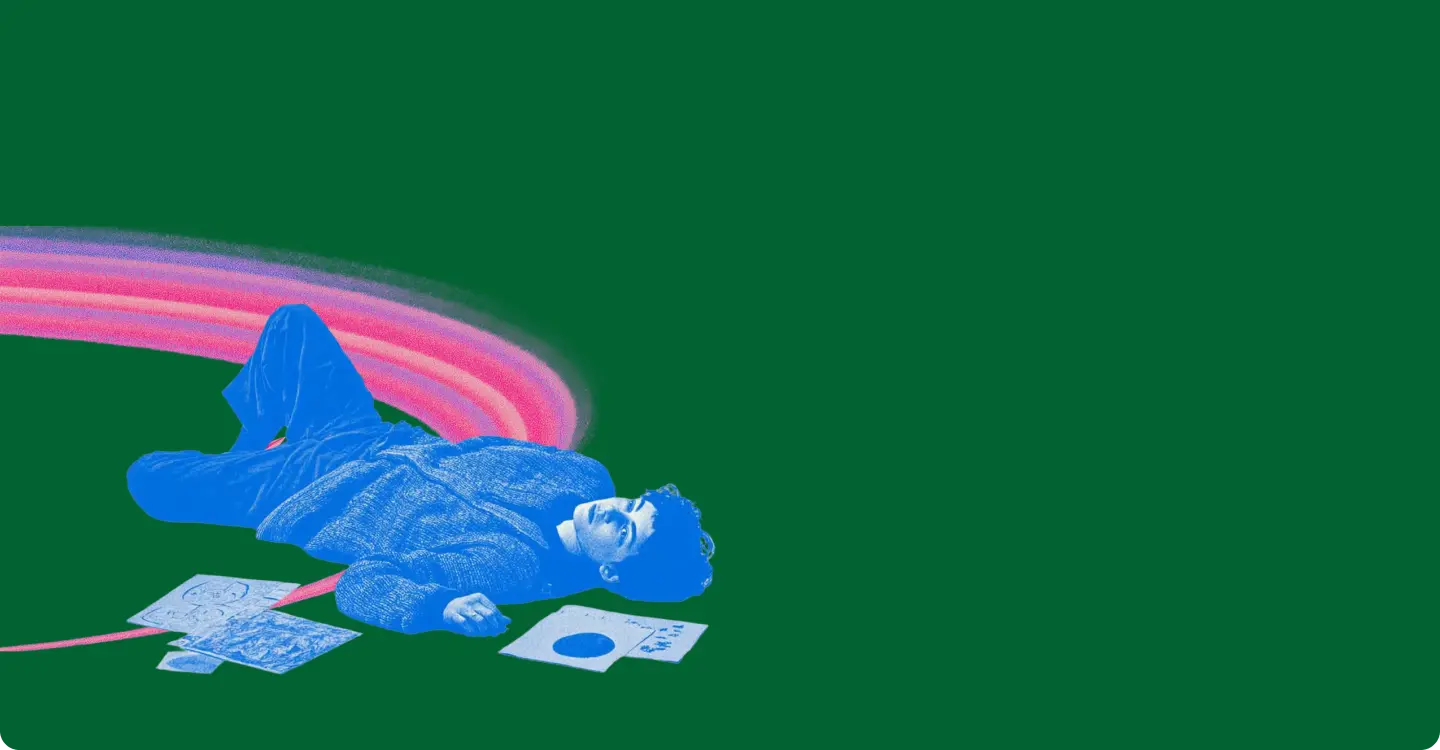
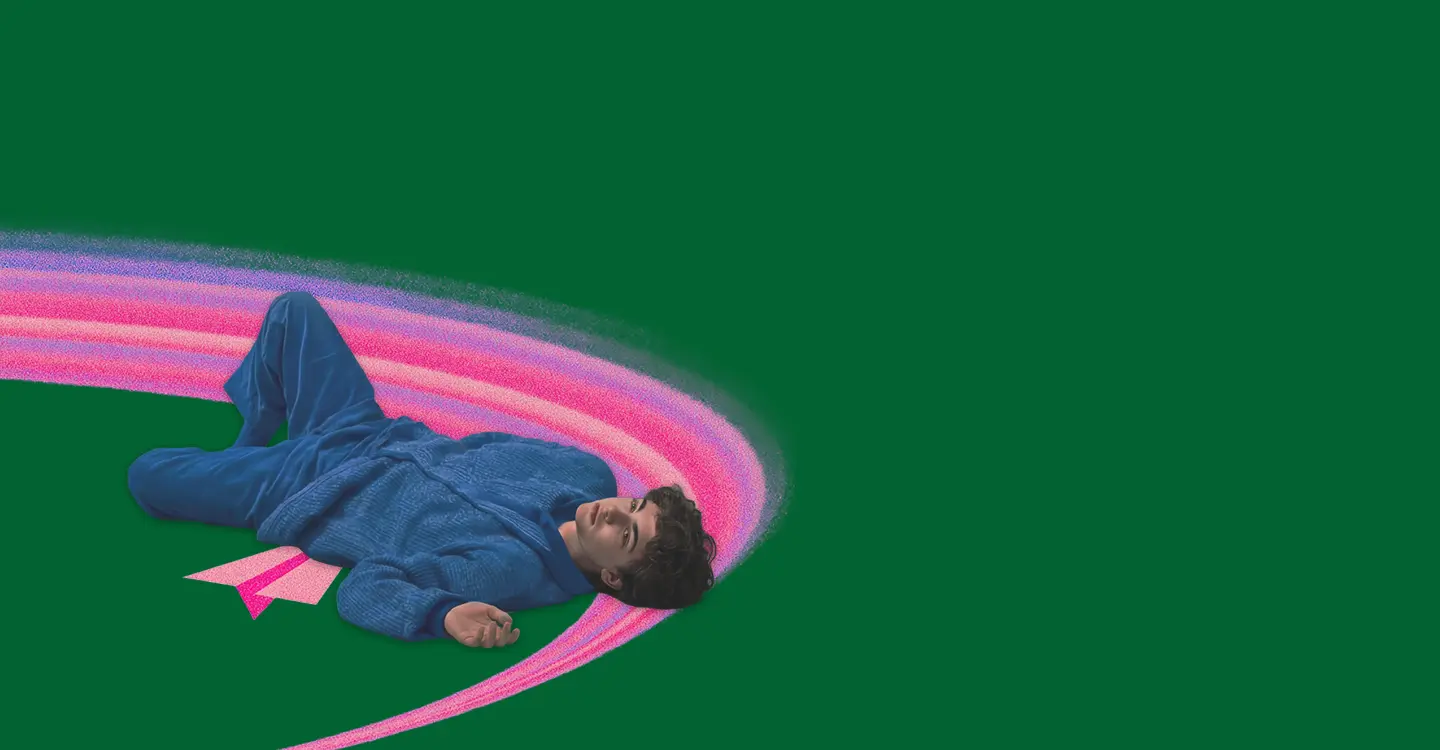
Update space-for-creativity.html and space-for-creativity.css for enhanced animations and visuals
- Replaced folder tab image with a new design in space-for-creativity.html
- Added scroll animations using Intersection Observer for fade-in effects on various elements
- Adjusted dimensions of the folder tab shape in space-for-creativity.css
- Updated hero section background image and height for improved aesthetics
- Introduced fade-in and staggered animations in CSS for better user experience

Changed region(s): [[0.0, 0.276, 0.5625, 1.0], [0.9688, 0.9813, 1.0, 1.0], [0.0, 0.9813, 0.0312, 1.0]]

diff --git a/space-for-creativity.html b/space-for-creativity.html
@@ -30,7 +30,7 @@
     <header class="header-container">
         <div class="header-content">
             <div class="folder-tab">
-                <img src="assets/folder-tab-vector.svg" alt="" class="folder-tab-shape">
+                <img src="assets/folder-tab-vector-blue.svg" alt="" class="folder-tab-shape">
                 <div class="logo-wrapper">
                     <img src="assets/logo-lockup-white.svg" alt="MonoDesk" class="logo">
                 </div>
@@ -357,11 +357,58 @@
 
     <!-- Footer Tagline -->
     <footer class="footer-tagline">
-        <img src="assets/logo-m.svg" alt="MonoDesk" class="footer-icon">
-        <div class="footer-content">
+        <img src="assets/logo-m.svg" alt="MonoDesk" class="footer-icon fade-in">
+        <div class="footer-content fade-in">
             <p class="footer-description">Make space for creativity. <span class="footer-description-muted">Eliminate the mundane, maximise your creativity.</span></p>
         </div>
     </footer>
+
+    <!-- Scroll Animations -->
+    <script>
+        document.addEventListener('DOMContentLoaded', function() {
+            // Add fade-in classes to elements
+            const animatedSelectors = [
+                '.about-text-container',
+                '.about-image',
+                '.cards-header-text',
+                '.card',
+                '.features-header-text',
+                '.feature-card',
+                '.steps-header-text',
+                '.step-card',
+                '.cta-text-container'
+            ];
+
+            animatedSelectors.forEach(selector => {
+                document.querySelectorAll(selector).forEach(el => {
+                    el.classList.add('fade-in');
+                    // Add stagger class for grid items
+                    if (['.card', '.feature-card', '.step-card'].includes(selector)) {
+                        el.classList.add('fade-in-stagger');
+                    }
+                });
+            });
+
+            // Intersection Observer for scroll animations
+            const observerOptions = {
+                root: null,
+                rootMargin: '0px 0px -60px 0px',
+                threshold: 0.1
+            };
+
+            const observer = new IntersectionObserver((entries) => {
+                entries.forEach(entry => {
+                    if (entry.isIntersecting) {
+                        entry.target.classList.add('visible');
+                    }
+                });
+            }, observerOptions);
+
+            document.querySelectorAll('.fade-in').forEach(el => {
+                observer.observe(el);
+            });
+        });
+    </script>
 </body>
 </html>
 

diff --git a/css/space-for-creativity.css b/css/space-for-creativity.css
@@ -94,8 +94,8 @@ body {
 
 .folder-tab-shape {
     grid-area: 1 / 1;
-    width: 530.26px;
-    height: 106.01px;
+    width: 530px;
+    height: 100px;
     display: block;
     max-width: none;
 }
@@ -123,8 +123,8 @@ body {
 
 .hero-section {
     width: 100%;
-    height: 750px;
-    background: url('../assets/header-green-thinker.webp') center center / cover no-repeat;
+    height: 820px;
+    background: url('../assets/header-blue-thinker.webp') center bottom / cover no-repeat;
     border-bottom-left-radius: 19px;
     border-bottom-right-radius: 19px;
     padding: 0;
@@ -767,6 +767,34 @@ body {
     font-size: 14px !important;
     font-weight: 500 !important;
 }
+
+/* ===================================
+   SCROLL ANIMATIONS
+   =================================== */
+
+/* Initial state for animated elements */
+.fade-in {
+    opacity: 0;
+    transform: translateY(20px);
+    transition: opacity 0.6s ease-out, transform 0.6s ease-out;
+}
+
+.fade-in.visible {
+    opacity: 1;
+    transform: translateY(0);
+}
+
+/* Staggered delays for grid items */
+.fade-in-stagger:nth-child(1) { transition-delay: 0s; }
+.fade-in-stagger:nth-child(2) { transition-delay: 0.1s; }
+.fade-in-stagger:nth-child(3) { transition-delay: 0.2s; }
+.fade-in-stagger:nth-child(4) { transition-delay: 0.3s; }
+.fade-in-stagger:nth-child(5) { transition-delay: 0.4s; }
+.fade-in-stagger:nth-child(6) { transition-delay: 0.5s; }
+.fade-in-stagger:nth-child(7) { transition-delay: 0.6s; }
+.fade-in-stagger:nth-child(8) { transition-delay: 0.7s; }
+.fade-in-stagger:nth-child(9) { transition-delay: 0.8s; }
+.fade-in-stagger:nth-child(10) { transition-delay: 0.9s; }
 
 /* ===================================
    RESPONSIVE (Basic)
